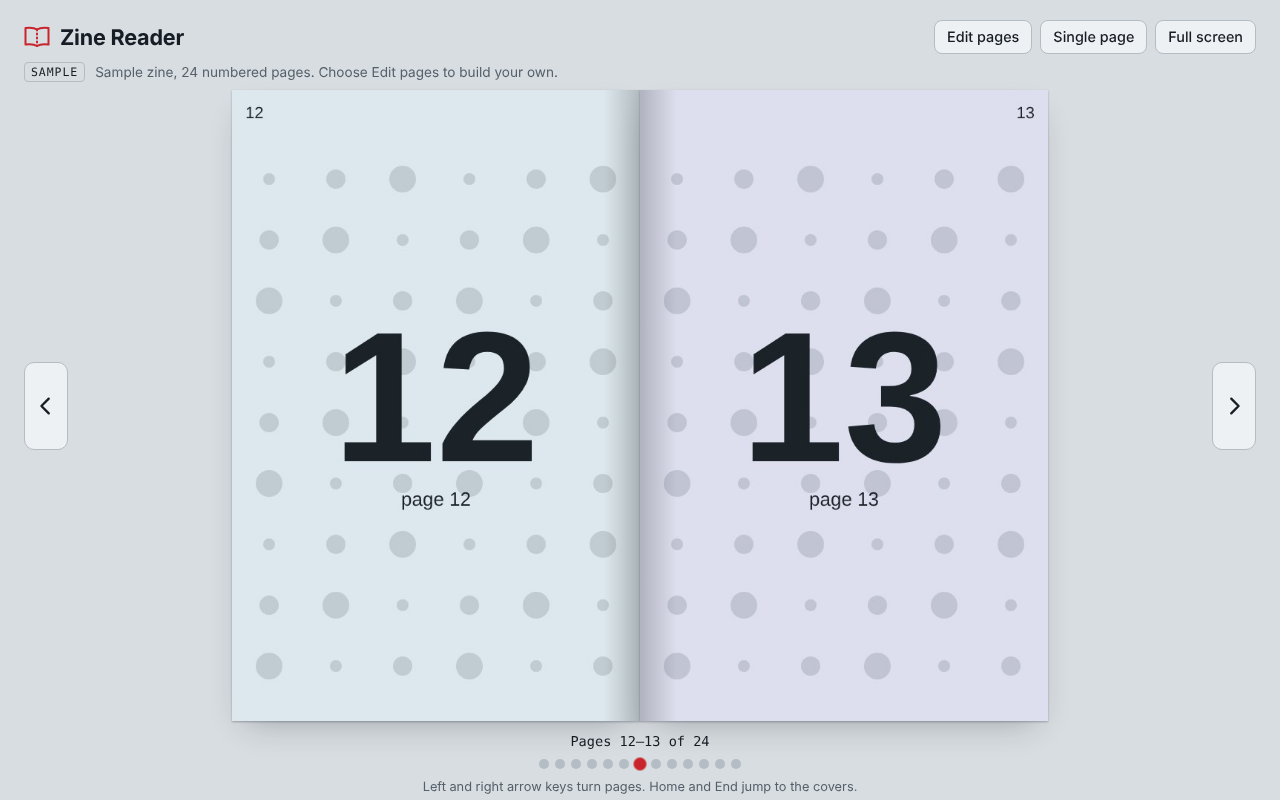
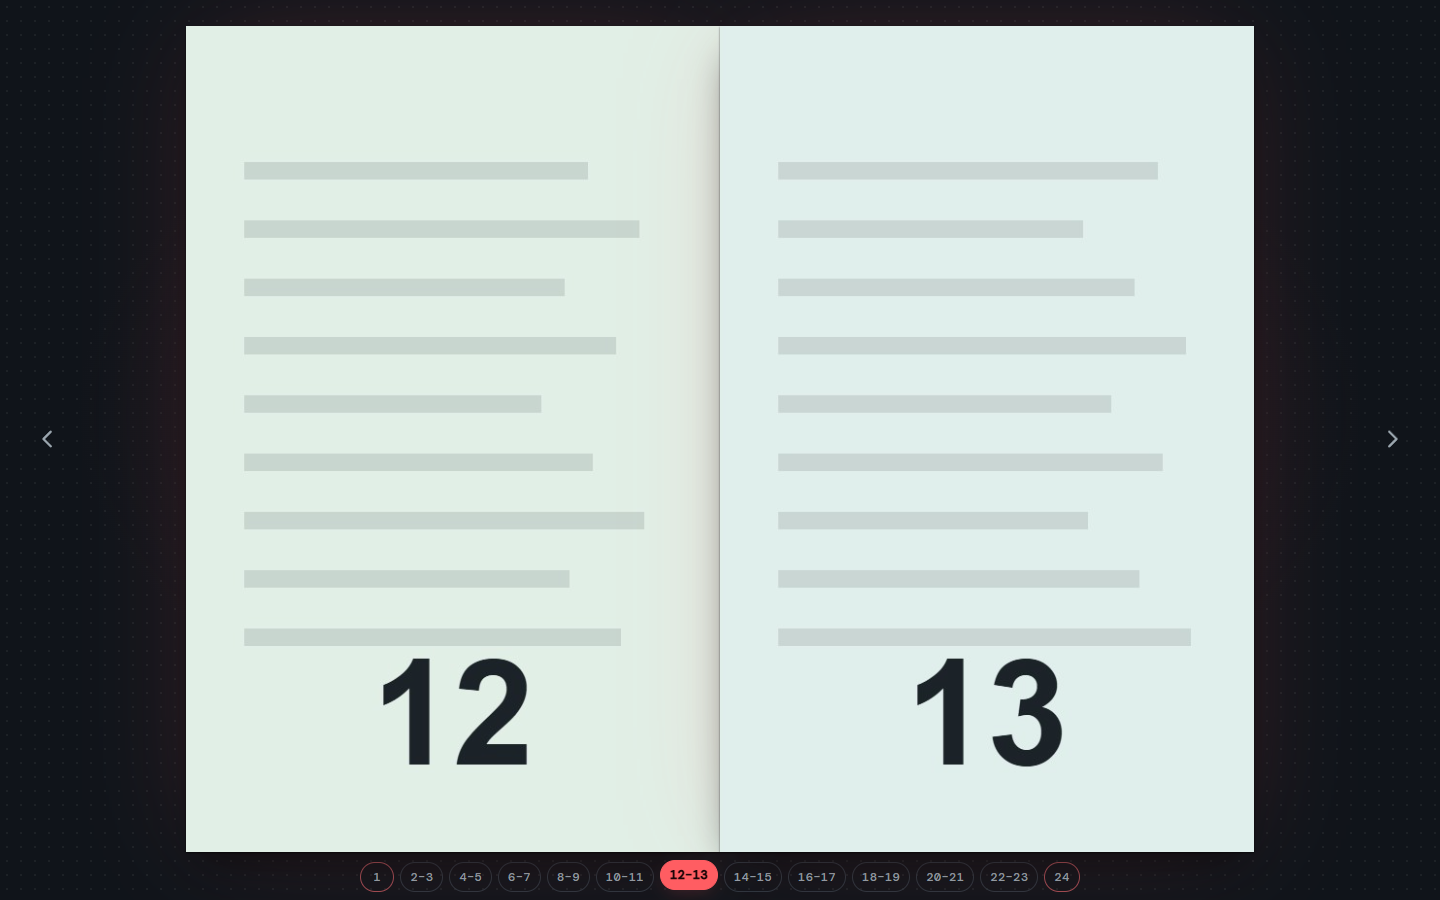
README: tidy layout, fresh 2.0 screenshots, iPhone web app link

diff --git a/README.md b/README.md
@@ -12,96 +12,86 @@
   <img alt="Windows" src="https://img.shields.io/badge/Windows-0078D4?style=flat-square&logo=windows&logoColor=white">
   <img alt="Linux" src="https://img.shields.io/badge/Linux-FCC624?style=flat-square&logo=linux&logoColor=black">
   <img alt="Android" src="https://img.shields.io/badge/Android-3DDC84?style=flat-square&logo=android&logoColor=white">
-  <img alt="iOS" src="https://img.shields.io/badge/iOS-web%20app-000000?style=flat-square&logo=apple&logoColor=white">
-  <img alt="Browser" src="https://img.shields.io/badge/Browser-single%20HTML%20file-161d24?style=flat-square">
+  <a href="https://hamza-dv.github.io/zinesplit-app/"><img alt="iOS web app" src="https://img.shields.io/badge/iOS-web%20app-000000?style=flat-square&logo=apple&logoColor=white"></a>
   <a href="LICENSE"><img alt="MIT license" src="https://img.shields.io/badge/license-MIT-161d24?style=flat-square"></a>
 </p>
 
 <p align="center">
-  <a href="#get-the-app">Download</a> ·
+  <a href="#get-zinesplit">Get it</a> ·
   <a href="#quick-start">Quick start</a> ·
   <a href="#controls">Controls</a> ·
+  <a href="#preparing-your-images">Preparing images</a> ·
   <a href="#faq">FAQ</a> ·
-  <a href="#build-from-source">Build</a>
+  <a href="#development">Development</a>
 </p>
 
 ---
 
-Export each printed sheet of your zine as an image, drop the images in, and ZineSplit cuts every image down the middle, puts the pages back in reading order, and stands your zine on a shelf with its cover facing out. Open one to read it as two-page spreads, or export it as a **PDF in page order** or as **separate page images** for printing.
+Export each printed sheet of your zine as an image and drop the images in. ZineSplit cuts every image down the middle, puts the pages back in reading order, and stands the zine on your shelf with its cover facing out. Open it to read as two-page spreads, or export it as a **PDF in page order** or as **separate page images** for printing.
 
-<p align="center"><img alt="Your shelf: zines standing cover-out like a magazine rack" src="docs/shelf.png" width="860"></p>
+<p align="center"><img alt="The shelf: four zines standing cover-out like a magazine rack" src="docs/shelf.png" width="860"></p>
 
-Everything runs on your device. Your images are never uploaded anywhere. ZineSplit runs in a browser, as a Windows app, as a Linux app, and as an Android app.
-
-## Who it's for
-
-ZineSplit is for people who lay out a zine **one landscape sheet per image, folded in half**, and want to read it back as a book before printing.
-
-If you design this way (for example in Affinity, Illustrator, Photoshop, Canva or Figma), each sheet holds two pages side by side, and the pages are in *printing order*, not reading order. A 24-page zine is 12 sheets, where sheet 1 has the front cover on the right and the back cover on the left, sheet 2 has page 2 beside page 23, and so on. That is hard to proof by eye.
-
-**Use case:** export each sheet as a PNG or JPEG, drop them into ZineSplit, and flip through the finished zine as two-page spreads. Check page order, facing-page layouts, and where the spreads fall before you waste paper.
-
-It is not a general PDF reader, and it is not for zines already laid out as single pages in reading order (though a **Pages in order** layout is included for that case).
+Everything runs on your device. Your artwork is never uploaded anywhere.
 
 ## Features
 
-- **The shelf.** A magazine rack that holds all your zines, each standing upright with its front cover showing. Zines are saved on your device, so they are there next time you open the app.
-- **Cut and reorder.** Each sheet image is cut down the middle and the pages go back into reading order, with the front cover first and the back cover last.
-- **Read as a book.** Two-page spreads with a page turn, arrow keys, numbered page buttons under the book, and a full screen mode that shows only the pages.
+- **The shelf.** A magazine rack holding all your zines, front covers out. Zines are saved on your device, so they are there next time.
+- **Cut and reorder.** Each sheet is cut down the middle and the pages go back into reading order, front cover first and back cover last.
+- **Read as a book.** Two-page spreads with a page turn, arrow keys, swipe, numbered page buttons, and a full screen mode that shows only the pages.
 - **Export a PDF.** One PDF with every page in reading order, cut from your sheets.
-- **Export page images.** A ZIP of lossless PNGs (`page-01.png`, `page-02.png` ...) in reading order, for printing or for other tools.
-- **Dark and light themes.**
+- **Export page images.** A ZIP of lossless PNGs (`page-01.png`, `page-02.png` ...) in reading order.
+- **Proof as you go.** Read a zine before every sheet is in; missing sheets show as blank pages.
+- **Dark and light themes**, and it works fully offline.
 
-On the shelf, hover over a zine (or tap it on a phone) to get **PDF** and **Images** buttons. Inside the reader, use **Export PDF** and **Page images** in the top bar.
+## Get ZineSplit
 
-## Get the app
-
-Download from the **[latest release](../../releases/latest)**.
-
-| Platform | File | How to run it |
+| Platform | Get it | How to run it |
 |---|---|---|
-| **Windows 10 / 11** | `ZineSplit-x.y.z-windows-setup.exe` | Double-click to install. Or use `…-windows-portable.exe`, which runs without installing. If SmartScreen appears, choose **More info → Run anyway** (the app is not code-signed). |
-| **Linux** | `ZineSplit-x.y.z-linux-x86_64.AppImage` | `chmod +x` it and run. On Debian / Ubuntu you can instead `sudo apt install ./ZineSplit-*.deb`. |
-| **Android 7+** | `ZineSplit-x.y.z-android.apk` | Open it on your phone and allow installs from your browser or file manager the first time. New versions install over the old one and keep your shelf. |
-| **iPhone / iPad** | Web app | Open ZineSplit's web link in **Safari**, tap **Share → Add to Home Screen**. It opens full screen with its own icon and keeps your shelf on the phone. (iOS can't run a downloaded HTML file, so it needs the link.) |
-| **Any browser** | `ZineSplit-x.y.z.html` | One file with everything inside. Double-click it to open. Nothing to install, works offline. |
+| **Windows 10 / 11** | [`ZineSplit-x.y.z-windows-setup.exe`](../../releases/latest) | Double-click to install, or use the `-windows-portable.exe`, which runs without installing. If SmartScreen appears, choose **More info → Run anyway** (the app is not code-signed). |
+| **Linux** | [`ZineSplit-x.y.z-linux-x86_64.AppImage`](../../releases/latest) | `chmod +x` it and run it. On Debian / Ubuntu you can instead `sudo apt install ./ZineSplit-*.deb`. |
+| **Android 7+** | [`ZineSplit-x.y.z-android.apk`](../../releases/latest) | Open it on your phone and allow installs from your browser or file manager the first time. New versions install over the old one and keep your shelf. |
+| **iPhone / iPad** | **[hamza-dv.github.io/zinesplit-app](https://hamza-dv.github.io/zinesplit-app/)** | Open the link in **Safari**, then tap **Share → Add to Home Screen**. It opens full screen with its own icon and keeps your shelf on the device. |
+| **Any browser** | [`ZineSplit-x.y.z.html`](../../releases/latest) | One file with everything inside. Double-click it to open. Nothing to install. |
 
-<p align="center">
-  <img alt="Setup: choose the page count and drop each sheet when prompted" src="docs/setup.png" width="49%">
-  <img alt="Reader: pages 12 and 13 of a 24-page zine as an open spread" src="docs/reader.png" width="49%">
-</p>
+All downloads are on the **[latest release](../../releases/latest)** page.
 
 ## Quick start
 
-1. **Open it and add a zine.** Open the app (or double-click `index.html`), then choose **Add a zine** on the empty shelf.
-2. **Name it and pick the page count.** Choose how many pages the zine has (4, 8, 12 ... 48). A 24-page zine needs 12 images.
-3. **Drop each sheet when prompted.** ZineSplit asks for one image at a time, for example *"Image 3 of 12: drop the image with pages 3 and 22"*. Drop files anywhere on the page, or use **Choose image**. Dropping several files at once fills the next sheets in file-name order.
-4. **Read or shelve it.** Click **Read your zine** to open it, or **Save to shelf** to put it away. The front cover shows alone, then you see spreads (2 | 3, 4 | 5 ...), and the back cover shows alone at the end.
-5. **Export.** From the shelf or the reader, download the PDF or the page images.
+1. **Add a zine.** Open ZineSplit and choose **Add a zine** on the shelf.
+2. **Name it and pick the page count** (4, 8, 12 ... 48). A 24-page zine needs 12 images.
+3. **Drop each sheet when prompted.** ZineSplit asks for one image at a time, for example *"Drop the image with pages 6 and 19"*. Drop files anywhere on the window or use **Choose image**. Dropping several files at once fills the next sheets in file-name order.
+4. **Read or shelve it.** **Read your zine** opens it as a book; **Save to shelf** puts it away for later.
+5. **Export.** On the shelf, hover over a zine (or tap it on a phone) for **PDF** and **Images**. In the reader, use **Export PDF** and **Page images** in the top bar.
 
-Not ready with your own sheets yet? Click **Add a sample zine** on the shelf.
+No sheets ready yet? Choose **Add a sample zine** on the shelf.
+
+<p align="center">
+  <img alt="Setup: five of twelve sheets added, asking for the image with pages 6 and 19" src="docs/setup.png" width="49%">
+  <img alt="Reader: pages 12 and 13 as an open spread, with numbered page buttons" src="docs/reader.png" width="49%">
+</p>
 
 ## Controls
 
 | Action | How |
 |---|---|
-| Next / previous page | Right / left arrow key, the on-screen arrows, or click the right / left page |
+| Next / previous page | <kbd>→</kbd> / <kbd>←</kbd>, the on-screen arrows, or click the right / left page |
 | Touch screens | Swipe left or right |
-| Jump to the covers | Home / End |
+| Jump to the covers | <kbd>Home</kbd> / <kbd>End</kbd> |
 | Jump to a page or spread | Click its number under the book |
-| Back to the shelf | The Shelf button, or click the ZineSplit logo |
-| Single page or two-page spread | The view button at the top |
-| Full screen | The Full screen button, or press F |
-| Change images or the page count | Edit pages |
+| Show the toolbar while reading | Move the pointer to the top of the window, or tap |
+| Back to the shelf | **Shelf**, or click the ZineSplit logo |
+| Single page or two-page spread | The view button in the toolbar |
+| Full screen | **Full screen**, or <kbd>F</kbd> (<kbd>Esc</kbd> exits) |
+| Change images or the page count | **Edit pages** |
 
-## What your images should look like
+## Preparing your images
 
-Each image is **one printed side of a sheet**, landscape, **11 x 8.5 in**. It folds in half into two 5.5 x 8.5 in pages, and ZineSplit cuts it exactly down the middle.
+ZineSplit is for zines laid out **one landscape sheet per image, folded in half**, as you would in Affinity, Illustrator, Photoshop, Canva or Figma. Each image is **one printed side of a sheet**, 11 × 8.5 in, which folds into two 5.5 × 8.5 in pages. The pages on each sheet are in *printing order*, which is hard to proof by eye; ZineSplit puts them back in reading order.
 
 For a 24-page zine, the 12 images in order are:
 
 | Image | Left half | Right half | | Image | Left half | Right half |
-|---|---|---|---|---|---|---|
+|:-:|:-:|:-:|---|:-:|:-:|:-:|
 | 1 | 24 (back cover) | 1 (front cover) | | 7 | 18 | 7 |
 | 2 | 2 | 23 | | 8 | 8 | 17 |
 | 3 | 22 | 3 | | 9 | 16 | 9 |
@@ -109,64 +99,84 @@ For a 24-page zine, the 12 images in order are:
 | 5 | 20 | 5 | | 11 | 14 | 11 |
 | 6 | 6 | 19 | | 12 | 12 | 13 |
 
-Images are read in file-name order, with numbers sorted naturally (`Sheet 2` comes before `Sheet 10`). The setup screen shows which pages belong to each image, so you can check before you open the zine.
+You don't need to memorise this: the setup screen labels every slot with its page numbers. If your images already hold two consecutive pages each (1 | 2, 3 | 4 ...), choose **Pages in order** instead of **Printed sheets**.
 
-If your images already hold two consecutive pages each (1 | 2, 3 | 4 ...), choose **Pages in order** instead of **Printed sheets**.
+**Exporting tips**
 
-### Exporting from your design app
-
-Any app works as long as it can export one image per sheet side. Look for an option like "export artboards" or "export all pages", and choose PNG, JPEG or WebP.
-
-- **Name the files so they sort in order**, for example `sheet-01.png`, `sheet-02.png`.
-- **Use 150 dpi** (1650 x 1275 px per sheet). It looks sharp on screen and loads quickly. Use 300 dpi only if people will zoom in a lot.
-- **Hide guide layers first.** Fold lines, crop marks or guides sitting on the center of the sheet will show as a faint edge on the cut.
-- **File size:** WebP is usually the smallest, then JPEG, then PNG. PNG is the best choice for flat color and crisp text.
+- Export one image per sheet side ("export artboards" or "export all pages"), as PNG, JPEG or WebP.
+- **Name files so they sort in order**, like `sheet-01.png`, `sheet-02.png`. Numbers sort naturally, so `sheet-2` comes before `sheet-10`.
+- **150 dpi** (1650 × 1275 px per sheet) looks sharp and loads quickly. Use 300 dpi only if people will zoom in a lot.
+- **Hide guide layers first.** Fold lines or crop marks on the centre of the sheet show as a faint edge on the cut.
 
 ## FAQ
 
-**The pages look out of order.**
-Check the file names. Files are sorted by name, so `sheet-1`, `sheet-2` ... `sheet-12` works, and so does `sheet-01` ... `sheet-12`. Use **Edit pages** and click a sheet to replace any image that landed in the wrong slot.
+<details>
+<summary><b>The pages look out of order.</b></summary>
 
-**There is a thin line down the middle of my pages.**
+Check the file names. Files are sorted by name, so `sheet-1` ... `sheet-12` works, and so does `sheet-01` ... `sheet-12`. Use **Edit pages** and click a sheet to replace any image that landed in the wrong slot.
+</details>
+
+<details>
+<summary><b>There is a thin line down the middle of my pages.</b></summary>
+
 A fold line or guide was included in the export. Hide that layer and export again.
+</details>
 
-**It says my images are portrait.**
-ZineSplit expects landscape images that split into two pages. A portrait image is one single page. Export each printed sheet side as a landscape image.
+<details>
+<summary><b>It says my images are portrait.</b></summary>
 
-**Can I open it before every sheet is added?**
-Yes. Click **Read what I have**. Missing sheets appear as blank pages, and they export as blank pages too.
+ZineSplit expects landscape images that split into two pages. Export each printed sheet side as a landscape image.
+</details>
 
-**Where are my zines stored?**
-In the app's own storage on this device (the browser's, or the app's). Clearing site data in the browser, or uninstalling the app, removes them, so keep your original sheet images.
+<details>
+<summary><b>Where are my zines stored?</b></summary>
 
-**How is the PDF made?**
-Each page is cut from its sheet at full size and written into the PDF as a JPEG, in reading order. Page size follows your sheet: 5.5 x 8.5 in for an 11 x 8.5 in sheet. The page images are lossless PNGs.
+In the app's own storage on your device. Updating the app keeps them. Uninstalling the app, or clearing site data in a browser, removes them, so keep your original sheet images.
+</details>
 
-**Does it work offline?**
-Yes. The apps include their fonts. In a browser, `index.html` finds the `fonts` folder next to it.
+<details>
+<summary><b>How is the PDF made?</b></summary>
 
-**Is my artwork uploaded anywhere?**
-No. Images are read and stored locally on your device.
+Each page is cut from its sheet at full size and written into the PDF as a JPEG, in reading order. Page size follows your sheet: 5.5 × 8.5 in for an 11 × 8.5 in sheet. Page images are exported as lossless PNGs.
+</details>
 
-**It is slow on my phone.**
-Large images take memory because the browser unpacks each one into raw pixels. Export at 150 dpi, or fewer pixels, for phones and older computers.
+<details>
+<summary><b>Is my artwork uploaded anywhere?</b></summary>
+
+No. Images are read and stored only on your device, and ZineSplit works offline.
+</details>
+
+<details>
+<summary><b>Why is iPhone a web link and not a download?</b></summary>
+
+iPhones only install apps through Apple, and they can't run a downloaded HTML file. Added to the Home Screen from Safari, the web app behaves like an installed app and works offline.
+</details>
+
+<details>
+<summary><b>It is slow on my phone.</b></summary>
+
+Large images use a lot of memory. Export at 150 dpi or lower for phones and older computers.
+</details>
 
 ## How it works
 
-ZineSplit does not edit your images. Each page is a box showing one half of a sheet image. A page's position in the book decides which half of which image it shows, using the standard folded-booklet order (for an N-page zine: front of sheet k is N-2k | 2k+1, back of sheet k is 2k+2 | N-2k-1). The page turn is a CSS 3D rotation. The PDF and ZIP writers are built in, so there are no runtime dependencies. The app is `index.html` plus a `fonts` folder. Windows and Linux builds wrap it in Electron, and the Android build wraps it with Capacitor.
+ZineSplit never edits your images. Each page is a box showing one half of a sheet image, and a page's position in the book decides which half of which image it shows, using standard folded-booklet order: for an N-page zine, the front of sheet *k* is pages N−2k | 2k+1 and the back is 2k+2 | N−2k−1. The page turn is a CSS 3D rotation, and the PDF and ZIP writers are built in, so there are no runtime dependencies.
 
-## Build from source
+The app is [`index.html`](index.html) plus a `fonts` folder. Windows and Linux builds wrap it in [Electron](https://www.electronjs.org), Android wraps it with [Capacitor](https://capacitorjs.com), and the browser build packs it into one self-contained HTML file.
+
+## Development
 
 ```sh
 npm install
 npm run desktop        # run the desktop app
-npm run dist           # build the installer for the OS you are on (into dist/)
+npm run dist           # build installers for this OS into dist/
+npm run web:single     # build the one-file browser version into dist-web/
 npx cap add android    # once, then:
 npm run android:sync
 cd android && ./gradlew assembleDebug    # test APK in android/app/build/outputs/apk/debug/
 ```
 
-Windows builds need Windows and Linux builds need Linux. Android needs the Android SDK and Java 21.
+Windows builds need Windows, Linux builds need Linux, and Android needs the Android SDK and Java 21. To try changes quickly, open `index.html` in a browser and use **Add a sample zine**.
 
 ### Releasing
 
@@ -177,17 +187,23 @@ git tag v2.1.0
 git push origin v2.1.0
 ```
 
-Windows, Linux, Android and browser files are attached to a new release, with the changelog section as its notes. The APK is signed with the release key stored in the `ANDROID_KEYSTORE_B64` and `ANDROID_KEYSTORE_PASSWORD` repository secrets. Always sign with the same key, or phones will refuse the update.
+The Windows, Linux, Android and browser files are attached to a new release, with the changelog section as its notes. The APK is signed with the key in the `ANDROID_KEYSTORE_B64` and `ANDROID_KEYSTORE_PASSWORD` repository secrets; always use the same key, or phones will refuse the update. Copy the new `ZineSplit-x.y.z.html` to [zinesplit-app](https://github.com/hamza-dv/zinesplit-app) as `index.html` to update the iPhone web app.
 
-## Browser support
+### Project layout
 
-Current versions of Chrome, Edge, Firefox and Safari, on desktop and phones.
+```
+index.html            the whole app
+fonts/                bundled fonts for offline use
+electron/             Windows and Linux wrapper
+capacitor.config.json Android wrapper settings
+scripts/              build helpers (www/ folder, single-file HTML)
+assets/, build/, resources/   logo and app icons
+docs/                 README screenshots
+```
 
 ## Contributing
 
-Issues and pull requests are welcome. Edit `index.html`, open it in a browser, and test with **Add a sample zine**. Run `npm run web:build` to refresh the `www` folder used by the desktop and Android builds.
-
-Ideas that would be useful:
+Issues and pull requests are welcome. Ideas that would be useful:
 
 - Open a single PDF and treat each page as a sheet
 - Right-to-left reading order
